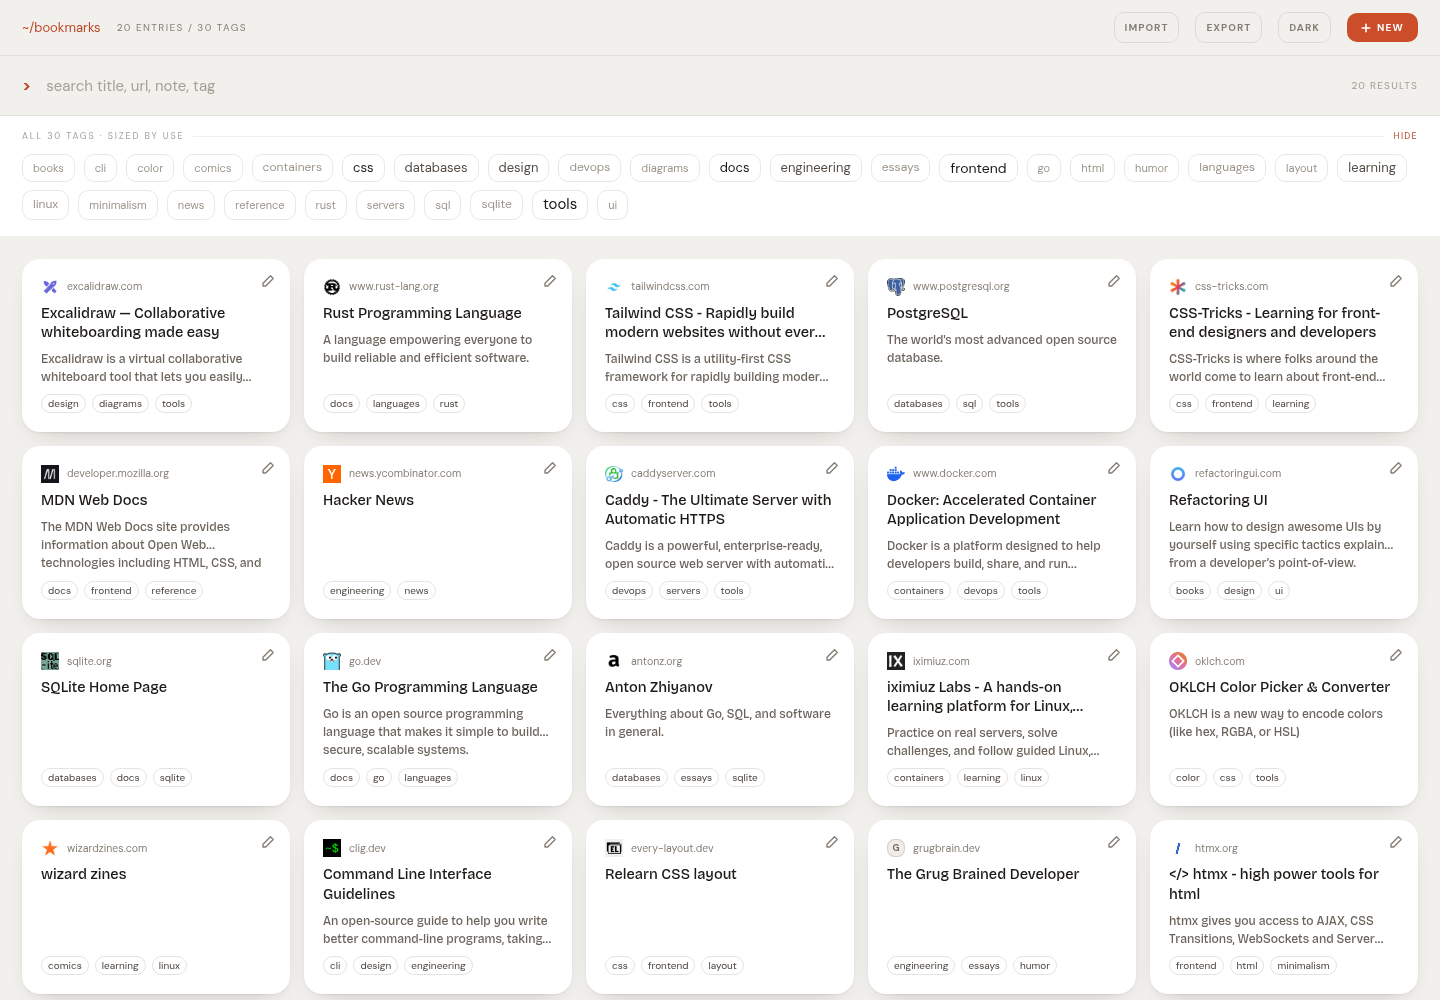
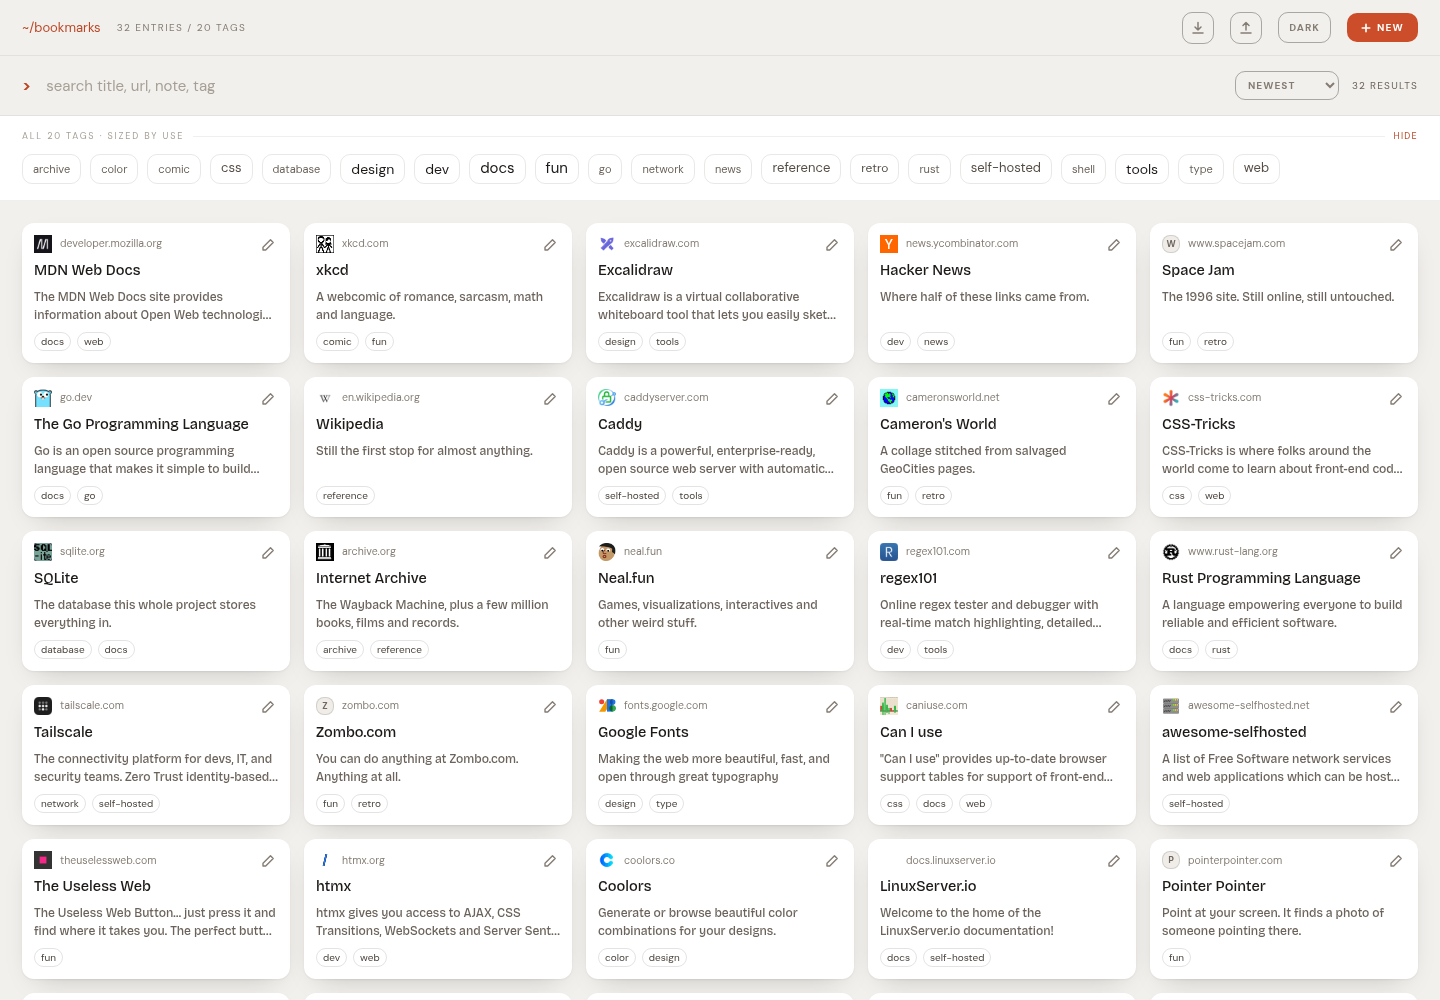
docs: refresh screenshots and correct the image size figures
New screenshots, seeded from a throwaway database of well-known sites with a
few easter eggs, with titles and descriptions inferred by the server the same
way a user would get them.

The size figures were wrong in two separate ways. The headline called 5.5 MB a
binary size, but that is the compressed image; the binary is 11.98 MB. And the
comparison set 5.5 MB compressed against two uncompressed base-image figures
that were themselves inflated, almost certainly read from docker images, the
one command this paragraph already tells you not to use.

Measured with docker export | wc -c on linux/amd64 for all three:

  bookmarks             12.2 MB   (was quoted as 5.5)
  python:3.13-alpine    47.6 MB   (was quoted as 70.3)
  node:24-alpine       170.0 MB   (was quoted as 234)

That is 3.9x and 13.9x rather than the 43x the mixed comparison implied. The
paragraph now names its method, keeps the 5.5 MB pull cost as a secondary fact,
and warns about docker image inspect --format '{{.Size}}' too, which reports
the compressed size under the containerd image store.

diff --git a/README.md b/README.md
@@ -1,6 +1,6 @@
 # Bookmarks
 
-A self-hosted bookmarks manager in a single 5.5 MB static binary. Paste a URL and the server fetches the page to fill in the title, description and favicon; find anything again by live search or by combining tags. All data lives in one SQLite file on your host.
+A self-hosted bookmarks manager in a single 12 MB static binary. Paste a URL and the server fetches the page to fill in the title, description and favicon; find anything again by live search or by combining tags. All data lives in one SQLite file on your host.
 
 ![Bookmarks](docs/desktop-light.png)
 
@@ -175,7 +175,7 @@ Two dependencies: `modernc.org/sqlite` (pure Go, so the binary is genuinely stat
 
 The frontend is native ES modules under `web/js/`, plus `web/index.html` and `web/app.css` — no build step, no npm, no framework. Everything, fonts included, is embedded with `go:embed`, so the app makes no external requests to render.
 
-The `scratch` base is what keeps the image at 5.5 MB; `python:3.13-alpine` starts at 70.3 MB and `node:24-alpine` at 234 MB before any application code. Measure with `docker image inspect --format '{{.Size}}'` — `docker images` reports inflated numbers for this image.
+The `scratch` base is what keeps the image at 12 MB on disk; `python:3.13-alpine` starts at 47.6 MB and `node:24-alpine` at 170 MB before a line of application code. All three were measured the same way, `docker export <container> | wc -c` on `linux/amd64`, so they compare like with like. Pulling costs less than the on-disk figure — 5.5 MB compressed for this image. Two commands to avoid: `docker images` reports inflated numbers, and `docker image inspect --format '{{.Size}}'` reports the compressed size rather than the size on disk.
 
 ## License
 
